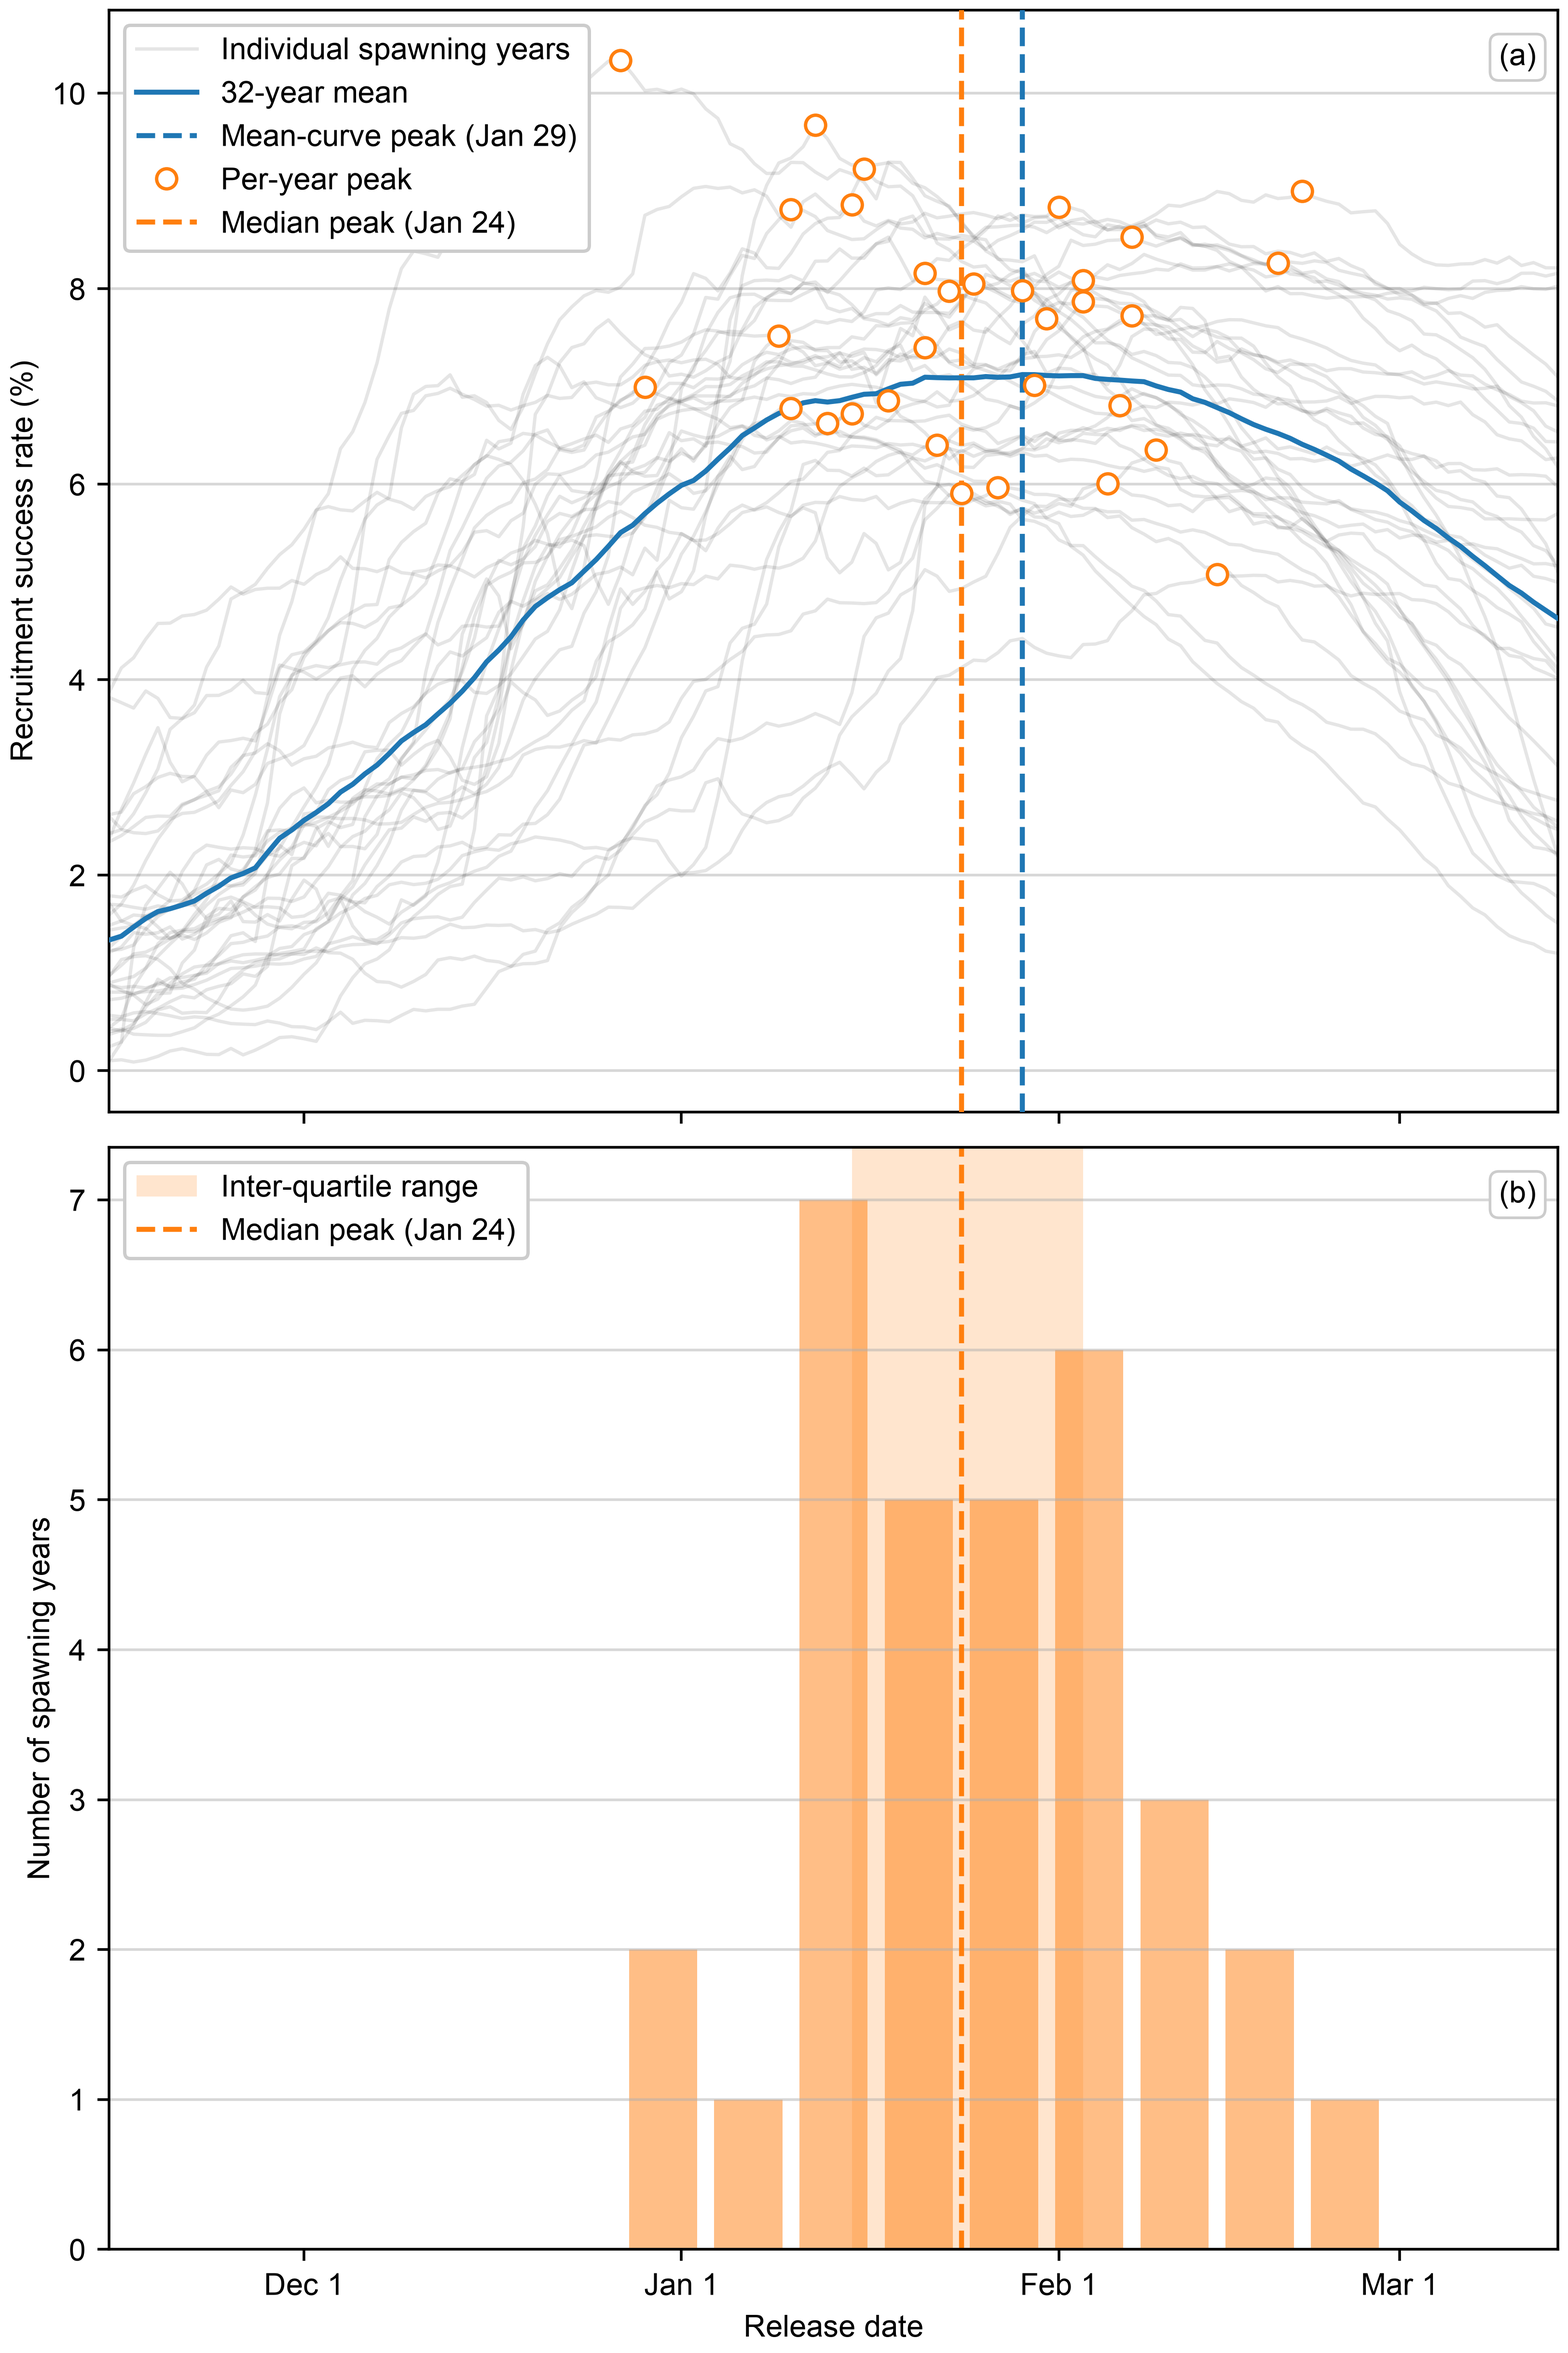
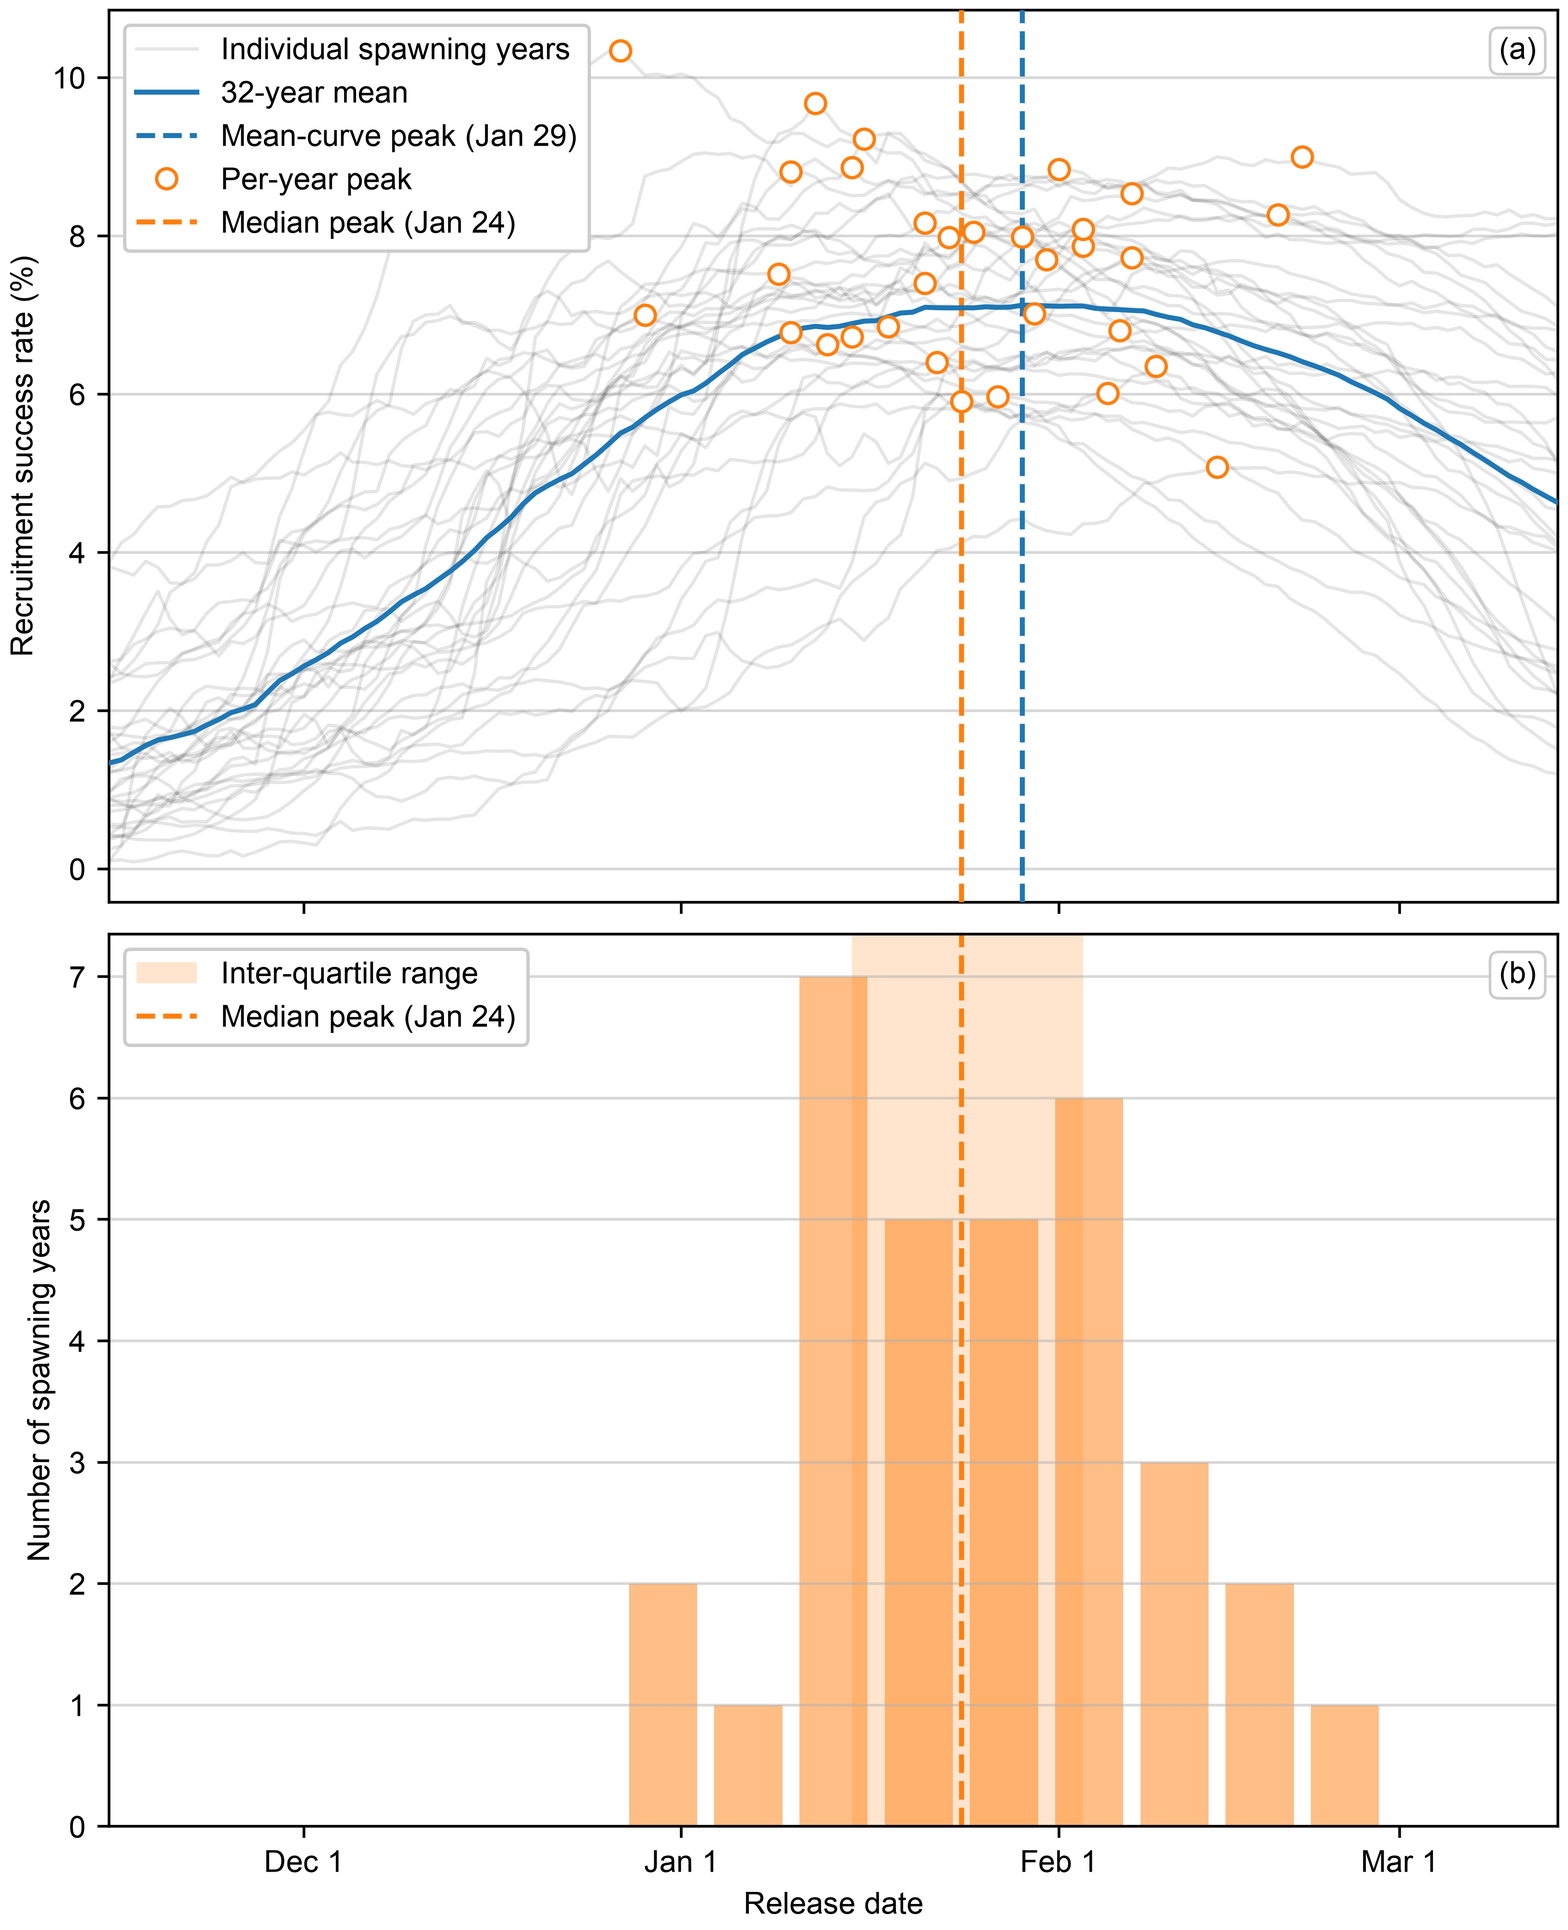
FS1: resize to 6.5 x 8 in to fit a Letter page with 1 in margins
Leaves room for the caption. Panels are now 6.5 x 4 in each rather than
6.5 x 4.875. Also fixes the docstring header, still reading FS2 from before
the S1/S2 renumbering.

diff --git a/FS1_phenology_per_year/plot.py b/FS1_phenology_per_year/plot.py
@@ -1,6 +1,6 @@
 """
 FS1 plot: per-year phenology curves and the distribution of per-year peak
-release dates.
+release dates. Figure S1 of the manuscript.
 
 Supporting Information companion to F2. F2 shows the 32-year climatological
 mean with its interannual 5th-95th percentile envelope; that envelope
@@ -44,16 +44,16 @@ from matplotlib.ticker import MaxNLocator
 # Style (see ../FIGURE_STYLE.md)
 # ---------------------------------------------------------------------------
 #
-# Two panels of equal height, each at the 4:3 aspect ratio of the
-# single-panel figures, so the figure is 6.5 x 9.75 in. Everything else is
-# left at its rcParams default: marker sizes, legend font size, histogram
-# edges and axis limits are not overridden. The one exception is the
-# individual-year line width, noted below.
+# Two panels of equal height. Sized to fit a US Letter page with 1 in margins
+# (6.5 x 9 in of live area) with room left for the caption: 6.5 x 8 in, so each
+# panel is 6.5 x 4 in. Everything else is left at its rcParams default: marker
+# sizes, legend font size, histogram edges and axis limits are not overridden.
+# The one exception is the individual-year line width, noted below.
 
 mpl.rcParams.update({
     "font.family": "Arial",
     "font.size": 9,
-    "figure.figsize": (6.5, 9.75),        # 6.5 in wide, two 4:3 panels
+    "figure.figsize": (6.5, 8.0),         # 6.5 in wide, two 6.5 x 4 in panels
 })
 
 
